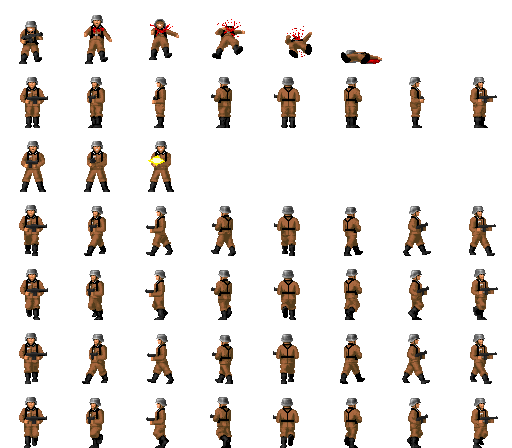
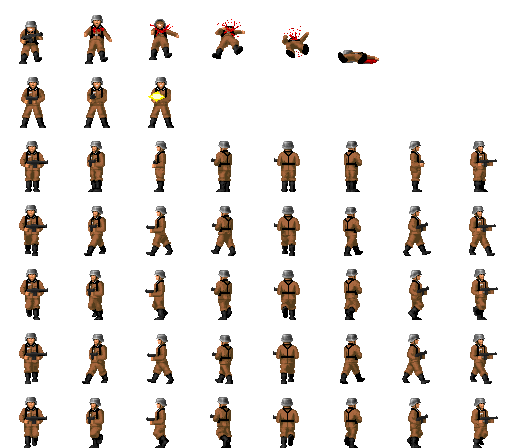
two textures for enemies

diff --git a/src/enemy.cpp b/src/enemy.cpp
@@ -5,14 +5,14 @@
 const static String shaderDir = "resource/Shaders/";
 String bindShader(std::string dir);
 
-Enemy::Enemy(glm::vec3 position, float rotation, int hit_points) 
+Enemy::Enemy(glm::vec3 position, float rotation, int hit_points, String name_of_file)
 {
     String vertexShaderSrc   = bindShader(shaderDir + "map/map.vert");
     String fragmentShaderSrc = bindShader(shaderDir + "map/map.frag");
 
     ps = new ProgramShader(vertexShaderSrc.c_str(), fragmentShaderSrc.c_str());
 
-    enemy_tex = new Texture("resource/images/enemies/Enemy-01.png", GL_RGBA, GL_UNSIGNED_BYTE, GL_TEXTURE0);
+    enemy_tex = new Texture((((String)"resource/images/enemies/").append(name_of_file)).c_str(), GL_RGBA, GL_UNSIGNED_BYTE, GL_TEXTURE0);
     enemy_tex->unbind();
     enemy_tex->uniform("tex0", *ps, 0);
     this->rotation = rotation;
@@ -28,10 +28,10 @@ void Enemy::update(const Collisions &colls) {
     int x = std::ceil(position.x);
     int z = std::ceil(position.z);
     
-    if (!CollidesRect(x, z, position.x + cosf((90 + rotation) * 3.14 / 180.0f) * speed, position.z, 0.1f, 0.1f)) {
+    if (!CollidesRect(x, z, position.x + cosf((90 + rotation) * 3.14 / 180.0f) * speed, position.z, 0.4f, 0.4f)) {
         position.x += cosf((90 + rotation) * 3.14 / 180.0f) * speed;
     }
-    if (!CollidesRect(x, z, position.x, position.z + sinf((90 + rotation) * 3.14 / 180.0f) * speed, 0.1f, 0.1f)) {
+    if (!CollidesRect(x, z, position.x, position.z + sinf((90 + rotation) * 3.14 / 180.0f) * speed, 0.4f, 0.4f)) {
         position.z += sinf((90 + rotation) * 3.14 / 180.0f) * speed;
     }
 }
@@ -87,7 +87,7 @@ void Enemy::draw(std::chrono::duration<float> &old_duration_enemy, std::chrono::
         Vertical_plane::draw_once(-0.5f, 0.0f, 0, -0.5f, 0.0f, tex_x, 6, 8.0f, 7.0f);
     } else {
         if (fabsf(position.x - position_check.x) < 0.0000001 || fabsf(position.z - position_check.z) < 0.0000001) {
-            Vertical_plane::draw_once(-0.5f, 0.0f, 0, -0.5f, 0.0f, std::ceil(tex_rotation / 45), 5, 8.0f, 7.0f);
+            Vertical_plane::draw_once(-0.5f, 0.0f, 0, -0.5f, 0.0f, std::ceil(tex_rotation / 45), 4, 8.0f, 7.0f);
         } else {
             if (duration.count() - old_duration_enemy.count() > 0.3f) {
                 tex_y = (tex_y < 3) ? ++tex_y : 0;

diff --git a/headers/settings.h b/headers/settings.h
@@ -120,13 +120,7 @@ static void remove(std::vector<T>& v, size_t index) {
 static std::unique_ptr<int> map;
 
 static bool Collides(int stX, int stZ, int x, int z) {
-    // std::cout << x << " " << z << std::endl;
     return map.get()[12 + (stX - x) + (stZ - z) * 5] == 1;
-    // if (x < 0 || z < 0)
-    //     return map.get()[12 + (stX - x) + (stZ - z) * 5] == 1;
-    // else {
-    //     return map.get()[12 + (stX - x) + (stZ - z) * 5] == 1;
-    // }
 }
 
 static bool CollidesRect(int startX, int startZ, float x, float z, float x_half_extent, float z_half_extent) {
@@ -172,17 +166,6 @@ static std::unique_ptr<int> check_collisions(const Entity &creature, const Colli
             }
         }
     }
-    
-    /*
-    std::cout << std::endl;
-    for (size_t i = 0; i < 25; i++) {
-        if (i % 5 == 0) {
-            std::cout << std::endl;
-        }
-        std::cout << arr[i] << " ";
-    }
-    std::cout << std::endl;
-    //*/
      
     return (std::unique_ptr<int>) arr;
 }

diff --git a/headers/game.h b/headers/game.h
@@ -39,6 +39,10 @@ struct Player : public Entity {
     uint lives = 4;
 };
 
+struct Item : Entity {
+    
+};
+
 struct Enemy : public Entity {
     glm::vec3 position_check = glm::vec3(1.0f);
     float danage = 0;
@@ -52,7 +56,7 @@ private:
     void draw(std::chrono::duration<float> &old_duration_enemy, std::chrono::duration<float> duration, const Player &player, glm::mat4 &view, glm::mat4 &proj);
     void update(const Collisions &colls);
 public:
-    Enemy(glm::vec3 position, float rotation, int hit_points);
+    Enemy(glm::vec3 position, float rotation, int hit_points, String name_of_file);
     void processing(const Collisions &colls, std::chrono::duration<float> &old_duration_enemy, std::chrono::duration<float> duration, const Player &player, glm::mat4 &view, glm::mat4 &proj);
     void clear();
 };

diff --git a/src/game.cpp b/src/game.cpp
@@ -80,7 +80,7 @@ void game(GLFWwindow *window) {
     player.ammo = 99;
     
     std::vector<Enemy> enemies;
-    enemies.push_back(Enemy(glm::vec3(-1.5f, 0.0f, -7.5f), 90.0f, 100));
+    enemies.push_back(Enemy(glm::vec3(-1.5f, 0.0f, -7.5f), 90.0f, 100, "Enemy-02.png"));
     
     int *map12 = new int[4] {
         1, 1,
